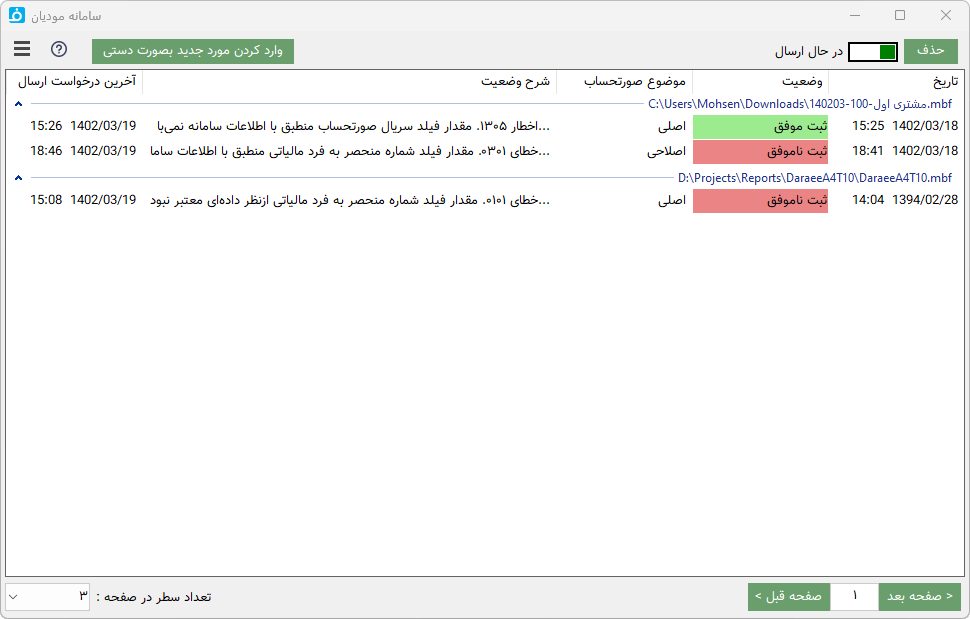
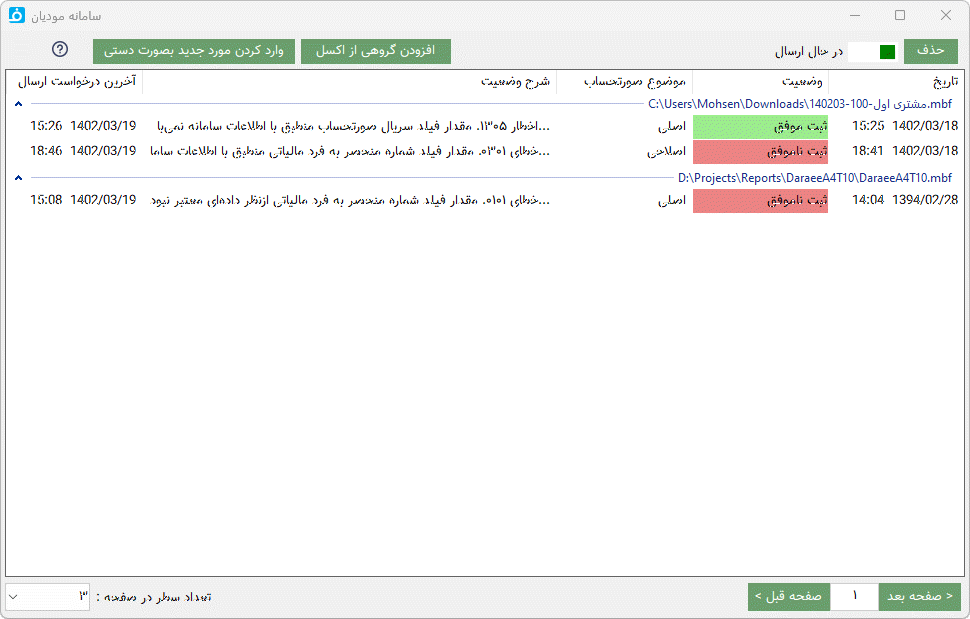
B1008

Changed region(s): [[0.0, 0.0614, 0.4639, 0.1228], [0.866, 0.0614, 0.9278, 0.1228]]

diff --git a/docs/source/mtax.rst b/docs/source/mtax.rst
@@ -10,7 +10,7 @@
 
 نرم افزاری محسن برای انجام این عملیات توسط کابران این امکان را به نرم افزار فاکتور افزوده است که میتوانید به راحتترین، ارزانترین و ساده ترین روش صورت حسابهای خود را به سامانه مودیان ارسال نمایید.
 
-با مطالعه این قسمت براحتی میتوانید از ارتباط را برای نرم افزار تنظیم نمایید:
+با مطالعه این قسمت براحتی میتوانید این ارتباط را برای نرم افزار تنظیم نمایید:
 
 
 .. _setting:
@@ -22,7 +22,7 @@
     
     |gen_csr|
 
-2. سپس به لینک زیر (کارپوشه -> عضویت -> شناسه های یکتای حافظه مالیاتی) رفته و روی گزینه "دریافت شناسه یکتا حافظه مالیاتی" کلیک کنید و با انتخاب "توسط مودی" در مرحله اول و انتخاب فایل کلید عمومی که در مرحله قبل گرفتید برای مرحله دوم و تیک دار کردن کد پستی در مرحله سوم و انتخاب گزینه "اتمام"  به شما یک شناسه حدود شش کاراکتری میدهد.
+2. سپس به لینک زیر (کارپوشه -> عضویت -> شناسه های یکتای حافظه مالیاتی) رفته و روی گزینه "دریافت شناسه یکتا حافظه مالیاتی" کلیک کنید و با انتخاب "توسط مودی" در مرحله اول و انتخاب فایل کلید عمومی  که در مرحله قبل گرفتید برای مرحله دوم و تیک دار کردن کد پستی در مرحله سوم و انتخاب گزینه "اتمام"  به شما یک شناسه حدود شش کاراکتری میدهد.
 
     |membership_normalUniqueID|
 
@@ -65,12 +65,20 @@
 
 ارسال به سامانه مودیان
 ----------------------------
-| برای ارسال صورتحساب به سامانه مودیان مالیاتی از دو طریق میتوانید این کار را انجام دهید:
+| برای ارسال صورتحساب به سامانه مودیان مالیاتی از سه طریق میتوانید این کار را انجام دهید:
 
-* **روش اول** باز کردن یک فاکتور و ارسال آن توسط گزینه "ارسال فاکتور" در نوار عمومی پنجره اصلی.
-* **روش دوم** اتخاب گزینه"وضعیت" در نوار عمومی از بخش سامانه مودیان و سپس انتخاب گزینه "وارد کردن مورد جدید بصورت دستی" برای وارد کردن اطلاعات بدون فاکتور ذخیره شده است، در این حالت میتواید اقلام صورتحساب را از طریق فایل اکسل نیز وارد نمایید.
+* **ارسال از فاکتور :** با باز کردن یک فاکتور و ارسال آن توسط گزینه "ارسال فاکتور" در نوار عمومی پنجره اصلی.
+* **ارسال دستی :** با انتخاب گزینه"وضعیت" در نوار عمومی از بخش سامانه مودیان و سپس انتخاب گزینه "وارد کردن مورد جدید بصورت دستی" برای وارد کردن اطلاعات بدون فاکتور ذخیره شده است، در این حالت میتواید اقلام صورتحساب را از طریق فایل اکسل نیز وارد نمایید.
+* **ارسال گروهی** انتخاب گزینه"وضعیت" در نوار عمومی از بخش سامانه مودیان و سپس انتخاب گزینه "افزودن گروهی از اکسل" برای وارد کردن لیستی از صورتحسابها بصورت و گروهی و ارسال همه آنها میباشد.
 
-پس از انجام روش اول نرم افزار بصورت خودکار شروع به تطبیق ستونهای فاکتور با ستونهای صورتحساب مورد نیاز سامانه میکند، اگر در این کار ستونی شناسایی نشد پنجره زیر باز خواهد شد:
+|
+
+.. _send_from_invoice:
+
+ارسال از فاکتور
+-------------------
+
+پس از باز کردن یک فاکتور و انتخاب گزینه "ارسال فاکتور" در نوار عمومی از پنجره اصلی نرم افزار بصورت خودکار شروع به تطبیق ستونهای فاکتور با ستونهای صورتحساب مورد نیاز سامانه میکند، اگر در این کار ستونی شناسایی نشد پنجره زیر باز خواهد شد:
 
 .. image:: images/mtax_map.png
     :alt:  ارتباط به سامانه مودیان
@@ -105,10 +113,40 @@
 
 در این پنجره همه ارسال ها به سامانه مودیان با در نظر گرفتن فایل فاکتور دسته بندی شده اند، این دسته بندی به این منظور است که تمام ارسال های مربوط به هر فایل در یک گروه قرار گیرند، برای مثال همه ارسال های فروش، ابطالی، اصلاحی و برگشت از فروش هر فایل در یک گروه قرار میگیرند تا مدیریت بهتری بر آن داشته باشید.
 
+.. _send_manual:
+
+ارسال دستی
+---------------
+اگر برای ارسال نیاز به ثبت فاکتور در سیستم ندارید میتوانید از این روش استفاده نمایید، تفاوت این روش با روش قبلی این است که مشخصات خریدار و اقلام کالا را میبایست بصورت دستی در پنجره ارسال صورتحساب وارد کنید.
+
+
+.. _send_from_excel:
+
+ارسال گروهی
+-------------------
+اگر لیستی از صوتحسابها در یک فایل اکسل دارید و قصد دارید همه آنها را بصورت هم زمان و گروهی ارسال نمایید از این روش استفاده کنید.
+
+پس از انتخاب گزینه "افزودن گروهی از اکسل" در پنجره وضعیت سامانه مودیان پنجره ورود از فایل اکسل نمایش داده میشود، با انتخاب یک فایل اکسل و باز شدن آن همه ستونهای مورد نیاز برای ارسال یک صورتحساب به سامانه مودیان در بلای همه ستونهای جدول نمایش داده میشود.
+
+نرم افزار بصورت خودکار با بررسی سطر اول که معمولا عنوان ستونها در آن نوشته می شود و مقایسه با ستونهای موجود در صورت تطابق یا شباهت ستون مورد نظر هر  ستون از جدول را انتخاب میکند، در غیر اینصورت برای هر ستون از جدول یک ستون از فیلدهای ارسال به سامانه را مشخص نمایید و تایید را انتخاب کنید تا عملیات ارسال شروع گردد.
+
+این انتخاب ستونها برای دفعات آینده ذخیره میشود و نیازی به تنظیم مجدد آنها نیست.
+
+**فرمت اکسل** ورودی در این روش بسیار ساده است، در هر سطر از فایل اکسل مشخصات خریدار شامل : نوع شخص از لحاظ حقیقی یا حقوقی، شماره اقتصادی و کدپستی در صورت حقیقی بودن و یک قلم کالا با مشخصات شناسه کالا و قیمت و تعداد و سایر موارد در صورت نیاز میباشد
+
+
 نکته ها
 -------------
+* در قانون جدید شناسه ملی با کد اقتصادی ادقام شده اند و از شناسه ملی میبایست برای کد اقتصادی استفاده کنید، بنابراین در فیلد کداقتصادی فروشنده در قسمت مشخصات نرم افزار و لایسنس باید از این کد استفاده نمایید.
 * شماره فاکتور طبق قوانین سامانه میبایست یک مقدار عددی و به ترتیب باشد، این شماره برای هر شناسه حافظه مالیاتی مستقل میباشد
 * طبق قوانین ارسال صورتحساب مهلت مشخص دارد و ارسال صورتحساب های قدیمی تر از آن با خطا مواجه خواهد بود.
+* برای دریافت **شناسه کالا/خدمات** میتوانید از دو لینک زیر استفاده نمایید:
+  https://mtax.mohsensoft.com/Stuffid
+  
+  https://stuffid.tax.gov.ir
+
+* برای **صورتحساب پیمانکاری** در ابتدا باید یک قرارداد توسط پیمانکار/کارفرما در کارپوشه ثبت شود، بعد از تکمیل مراحل و ثبت نهایی یک شماره قرارداد داده میشود، این قرارداد حتما باید توسط فرد مقابل (کارفرما یا پیمانکار) تایید شود که شماره قرارداد قابل استفاده در صورت وضعیت پیمانکاری باشد، سپس این شماره را در فیلد شماره قرارداد وارد نمایید. در نهایت صورتحساب در قسمت فروش داخلی در سامانه قرار میگیرد.
+* برای **ابطال** یک صورتحساب ارسال شده کافیست در پنجره وضعیت ارسال روی آن راست کلیک کرده و گزینه ابطلال را انتخاب نمایید، توجه کنید که ارسال این صورتحساب نیاز به یک شماره فاکتور جدید دارد و نیازی به وارد کردن اقلام صورتحساب ابطال شده ندارد.
 
 
 .. _fix-errors:
@@ -134,3 +172,18 @@
 * در پنجره ارسال صورتحساب تاریخ و زمان صدور و ایجاد صورتحساب بیشتر از زمان حاضر نباشد.
 
 پس از تغییر هرکدام از این موارد میباست صورتحساب را از ابتدا ارسال نمایید.
+
+
+|
+
+**خطای 0301. مقدار فیلد «شماره مالیاتی صورتحساب» با اطلاعات سامانه منطبق نیست :**
+احتمالا بخاطر ارسال شماره فاکتور تکراری و یا ارسال شدن موفق فاکتور در شرایطی که بخاطر مشکلات سامانه استعلام یا ارسال فاکتور با خطا نمایش داده شده است میباشد که میبایست کارپوشه را برای ارسال شدن فاکتور بررسی نمایید و یا در صورتی که صورتحساب هنوز ارسال نشده است آن را با یک شماره جدید ارسال نمایید.
+
+**خطای 401. احتمالا شناسه یکتای مالیاتی یا کلید خصوصی اشتباه هستند :**
+کلید خصوصی را بدرستی تنظیم نکرده اید، تمام کلیدهای دریافتی را پاک کنید و طبق ویدئوی ابتدای همین صفحه از ابتدا تا انتهای ویدئو را بصورت کامل و عینا انجام دهید، توجه کنید که کلید خصوصی و عمومی تنظیم شده در سامانه و نرم افزار باید یکی باشند و نمیتوانید از دو کلید تبادل آنها را انتخاب کنید.
+
+**خطای 0202. مقدار فیلد «تاریخ و زمان صدور صورتحساب(میلادی)» از لحاظ قواعد محاسباتی و منطقی معتبر نیست :**
+احتمالا تاریخ فاکتور از زمان حاضر بیشتر است و یا از زمان مجاز ارسال یک صورتحساب در سامانه مودیان (معمولا یک ماه) قدیمی تر است.
+
+**خطای 0344. مقدار فیلد «نرخ مالیات بر ارزشافزوده(J)» با اطلاعات سامانه منطبق نیست :**
+احتمالا از شناسه کالا/خدماتی استفاده کرده اید که مشمول مالیات است و شما نرخ مالیات را در ستون مربوطه مشخص نکرده اید و یا بالعکس شناسه مشمول مالیات نیست و شما مالیات تنظیم کرده اید. همچنین ممکن است شما گواهی ارزش افزوده ندارید ولی در فاکتور مالیات در نظر گرفته اید.

diff --git a/docs/source/cardpay.rst b/docs/source/cardpay.rst
@@ -28,11 +28,9 @@
 
 در منو ای که پس از کلیک بر روی فلش کناری گزینه پرداخت نمایش داده می شود موارد زیر وجود دارند:
 
-**لیست دستگاههای کارت خوان قابل انتخاب** شده به نرم افزار در ابتدای این منو قرار میگیرند و میتوانید با انتخاب هر کدام از آنها، آن کارت خوان را بعنوان پیشفرض پرداخت تعیین نمایید تا با کلیک بر روی گزینه پرداخت، پرداخت توسط آن دستگاه انجام گردد.
+**لیست دستگاههای کارت خوان قابل انتخاب**  در ابتدای این منو قرار میگیرند و میتوانید با انتخاب هر کدام از آنها، آن کارت خوان را بعنوان پیشفرض پرداخت تعیین نمایید تا با کلیک بر روی گزینه پرداخت، پرداخت توسط آن دستگاه انجام گردد.
 
 **تبدیل به ریال :** با فعال کردن این گزینه مبلغ نهایی در 10 ضرب خواهد شد.
-
-**جستجوی دستگاه جدید :** اگر فایلهای شناسایی دستگاه جدیدی را در محل مربوطه اضافه کرده باشید توسط این گزینه دستگاه جدید شناسیی و به لیست افزوده می شود.
 
 **راهنما :** توسط این گزینه راهنمای مربوطه ( همین صفحه ) نمایش داده خواهد شد.
 
@@ -47,49 +45,26 @@
     :alt: تنظیمات اتصال کارت خوان
     :align: center
 
+|
 
-در این پنجره نوع اتصال دستگاه کارت خوان و مشخصات اتصال را تعیین نمایید.
+در این پنجره تنظیمات ارتباط نرم افزار با دستگاه کارت خوان وجود دارند.
 
-در حالتی دستگاه بصورت پورت کام یا یو اس بی به سیستم متصل می شود پورتی در سیستم به آن اخصاص داده خواهد شد که میبایست نام پورت را در این قسمت انتخاب نمایید.
+.. note:: در حال حاضر تنها ارتباط تحت شبکه  پشتیبانی میشود، این حالت شامل وضعیتی است که کارت خوان به شبکه ای که سیستم شما در همان شبکه متصل میباشد قرار دارد 
+    و یا کارت خوان توسط ارتباطی دیگر به سیستم متصل شده است و با یک آی پی توسط نرم افزاری واسط مخصوص کارت خوان قابل دسترس باشد.
 
-در صورتی که قصد دارید دستگاه بصورت شبکه متصل گردد میبایست دو مشخصه آی پی و پورت اتصال را تنظیم نمایید.
+
+.. _cardpay-install:
+
+نصب دستگاه
+-----------------
+
+در مواردی نیاز به نصب درایور یا واسط نرم افزاری دستگاه وجود دارد که در کنار عنوان دستگاه عبارت "ارتباط مستقیم" ذکر نشده باشد،
+در این حالت معمولا به همراه کارت خوان یک فایل نصب وجود دارد که سرویسی در سیستم شما نصب خواهد کرد که در آن مشخصات اتصال به شما داده می شود در غیر اینصورت نیازی به نصب وجود ندارد و تنها وارد کردن آی پی و پورت دستگاه متصل به شبکه کفایت میکند.
+
+برای تنظیم کارت خوان کافیست دو مشخصه آی پی و پورت اتصال را تنظیم نمایید.
+این مشخصات را میبایست از دستگاه کارت خوان دریافت نمایید، محل دسترسی به این مشخصات تنظیمات دستگاه کارت خوان یا در برخی دستگاهها پرینت مشخصات آن است.
+
+در تنظیم این مشخصات به نکات گفته شده در زیر پنجره دقت لازم را انجام دهید.
 
 .. note:: برای اتصال دستگاه و نصب آن از پشتیبانی دستگاه کارت خوان خود کمک بگیرید.
-    البته راهنمای نصب بصورت کامل در فایل شناسایی و نصب دستگاه که در ادامه قابل دریافت میباشد وجود دارد و در صورت داشتن دانش کافی میتوانید این کار را خودتان انجام دهید.
-
-.. note:: درحال حاضر تنها دستگاههای شرکت **مبنا کارت آریا( بانک صادرات)** پشتیبانی میشود. سایر دستگاهها در آپدیت بعدی افزوده خواهند شد.
-
-.. _install-cardpay:
-
-نصب دستگاه کارت خوان
------------------------
-
-برای شناسایی و نصب دستگاه کارت خوان جدید میبایست از لیست زیر فایل شناسایی دستگاههای کارت خوان مختلف را دانلود کرده و در پوشه **Plugins\\PCPOS** در محل نصب نرم افزار فاکتور کپی نمایید.
-
-برای مثال پس از نصب دستگاه کارت خوان شرکت مبنا کارت فولدر، آدرس و محتوای نصب بصورت زیر خواهد بود:
-
-.. image:: images/cardpay_install_folder.png
-    :alt: محل نصب فایل مشخصات کارت خوان
-    :align: center
-
-.. note::
-    | لطفا به آدرس محل نصب دقت نمایید، در صورت قراردادن در مسیر اشتباه دستگاه شناسایی نخواهد شد.
-    | برای مشاهده صحت نصب فایل info موجود در فایل شناسایی دستگاه را در نظر بگیرید، این فایل میبایست در فولدری با نام شرکت صادر کننده کارت خوان، سپس در فولدر PCPOS و پس از آن در فولدر Plugins که در محل نصب نرم افزار فاکتور در کنار فایل اجرایی آن میباشد قرار دارد.
-
-
-سپس طبق راهنمای موجود در آن درایور مورد نیاز آن را نصب کنید و وارد نرم افزار شوید یا اگر نرم افزار در حال اجراست گزینه :ref:`جستجوی دستگاه جدید<cardpay>` را از منوی پرداخت کارت خوان انتخاب نمایید تا دستگاه جدید به نرم افزار افزوده گردد.
-
-.. _cardpay-configs-file:
-
-فایلهای شناسایی دستگاههای کارت خوان
----------------------------------------
-1. مبنا کارت آریا ( بانک صادرات ) :
-    | پس از نصب میتوانید از طریق فایل Readme.pdf درایورهای مورد نیاز را نصب نمایید.
-    | 
-    | |dl_mabnacard|
-
-.. |dl_mabnacard| raw:: html
-
-    <a href="http://dl.mohsensoft.com/plugins/pcpos/MabnaCard.zip" target="_blank">دانلود</a>
-
-.. note:: درحال حاضر تنها دستگاههای شرکت **مبنا کارت آریا( بانک صادرات)** پشتیبانی میشود. سایر دستگاهها در آپدیت بعدی افزوده خواهند شد.
+     و یا در صورت داشتن دانش کافی میتوانید این کار را خودتان انجام دهید.

diff --git a/docs/source/window-main.rst b/docs/source/window-main.rst
@@ -367,9 +367,9 @@
 
 .. _qsbank:
 
-|newflag| نوار دسترسی سریع انبار
+نوار دسترسی سریع انبار
 ---------------------------------------
-در برخی مشاغل مانند سفارش غذا تعدادی از اقلام زیادتر از سایر موارد موجود در انبار مورد استفاده قرار میگریند و دسترسی سریع به آنها برای افزودن به فاکتور در سرعت عمل صدور فاکتور بسیار موثر خواهد بود.
+|newflag| در برخی مشاغل مانند سفارش غذا تعدادی از اقلام زیادتر از سایر موارد موجود در انبار مورد استفاده قرار میگریند و دسترسی سریع به آنها برای افزودن به فاکتور در سرعت عمل صدور فاکتور بسیار موثر خواهد بود.
 از این رو قابلیتی به نرم افزار فاکتور افزوده شده است که بتوانید لیستی از این موارد پرکاربرد را در گوشه ای از نرم افزار جای دهید و بسرعت بهمراه گزینه هایی برای انتخاب سریع تعداد برگزینید تا به فاکتور افزوده گردد.
 
 در نوار بالایی نرم افزار در بخش عمومی و قسمت "ورود اطلاعات" گزینه ای با عنوان "دسترسی سریع" وجود دارد که با انتخاب آن نواری عمودی در کنار نرم افزار نمایش داده خواهد شد:

diff --git a/docs/source/changes-log.rst b/docs/source/changes-log.rst
@@ -6,6 +6,27 @@
 تغییرات ویرایش ها
 ==========================
 
+**ویرایش 6.3**
+-----------------
+* افزوده شدن تعداد انبارها تا 255 انبار. |bank|
+* افزوده شدن قابلیت نوار دسترسی سریع انبار. |qsbank|
+* افزوده شدن امکان ارتباط با 5 دستگاه کارت خوان. |cardpay|
+* افزودن شدن امکان گزارشگیر مستقل از انبار ها.
+* افزوده شدن امکان ارسال گروهی صورتحساب به سامانه مودیان. |mtax|
+* بهبود رابط کاربری ورود اطلاعات از فایل اکسل.
+* افزوده شدن امکان خروجی فایل اکسل برای تمام خروجی ها.
+* افزوده شدن امکان انتخاب رنگ برای مبلغ نهایی فاکتور. |settings_print|
+* افزوده شدن امکان تنظیم تعداد کپی. |bar_output_print|
+* اصلاح ذخیره شدن تغییرات در نوار دسترسی سریع فرمانها در گوشه سمت چپ و بالای نرم افزار. |win_main|
+
+.. |qsbank| raw:: html
+
+    <a class="more_info" href="https://mohsensoft.com/docs/faktor/window-main.html#qsbank" target="_blank"></a>
+
+.. |win_main| raw:: html
+
+    <a class="more_info" href="https://mohsensoft.com/docs/faktor/window-main.html" target="_blank"></a>
+
 **ویرایش 6.2**
 -------------------
 * افزوده شدن امکان ارتباط با سامانه مویان و ارسال صورتحساب. |mtax|

diff --git a/docs/source/window-settings.rst b/docs/source/window-settings.rst
@@ -142,6 +142,8 @@
 
 **رنگ شماره :** توسط این گزینه میتوانید رنگ مقدار شماره در برگه هایی که این فیلد را دارند تعیین نمایید.
 
+|newflag| **رنگ مبلغ نهایی :** توسط این گزینه میتوانید رنگ مبلغ نهایی در برگه هایی که این فیلد را دارند تعیین نمایید.
+
 
 .. _setting-ui:
 
